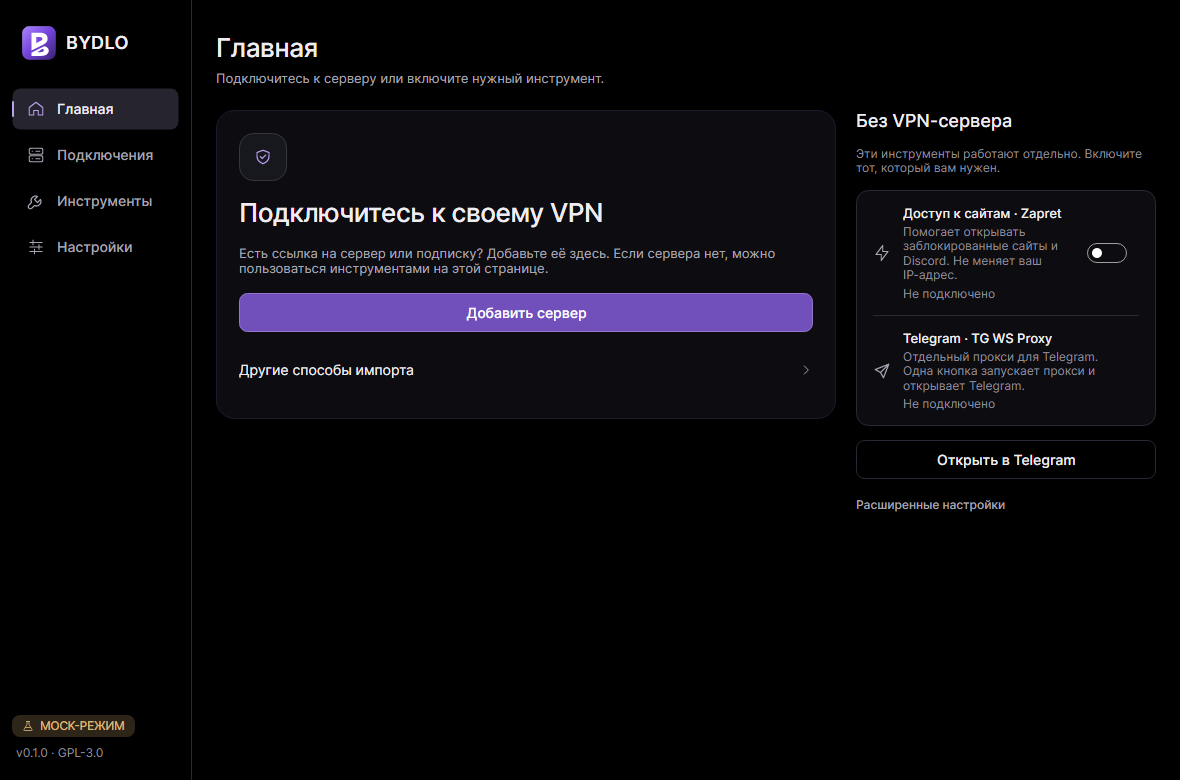
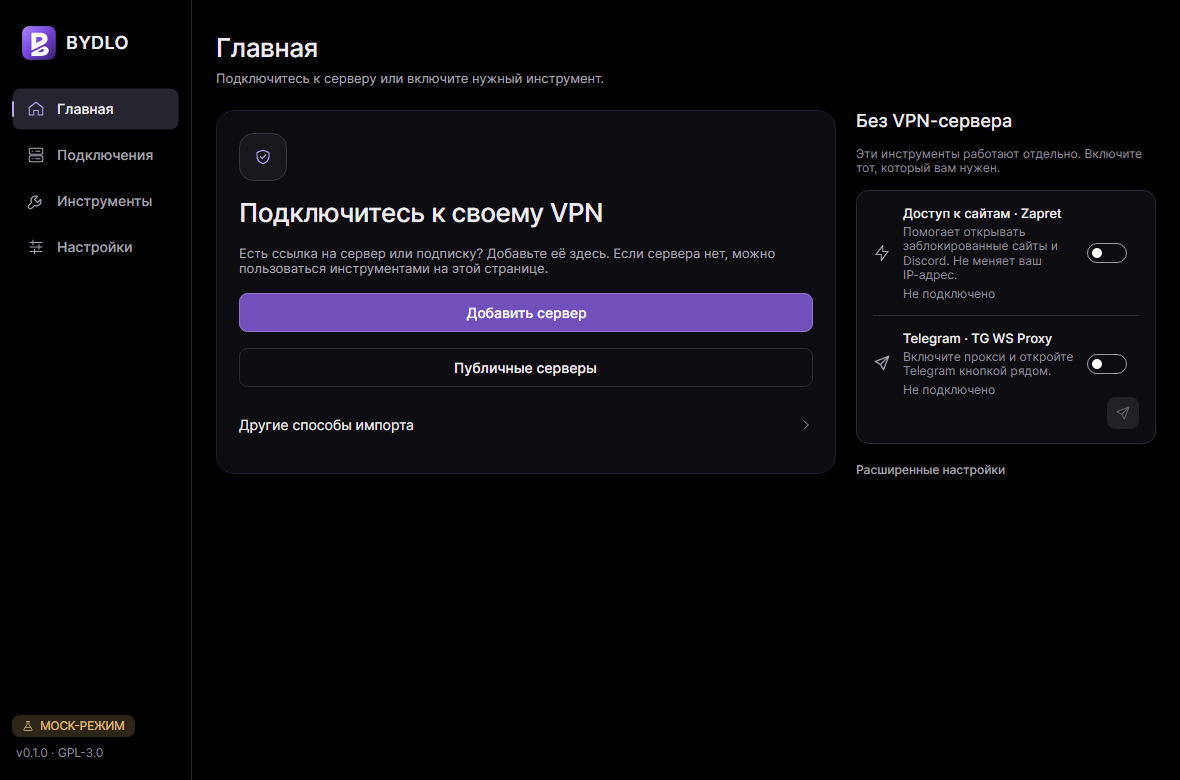
Expose public servers and themes and split Telegram controls

diff --git a/tools/Bydlo.Screenshots/Program.cs b/tools/Bydlo.Screenshots/Program.cs
@@ -262,6 +262,10 @@ if (args.Contains("--verify-simple-ui", StringComparer.Ordinal))
     if (shell.PrimaryNavItems.Count != 4)
         throw new InvalidOperationException("The desktop shell must expose four primary destinations.");
     shell.Navigate("settings");
+    var gallery = settingsWindow.GetVisualDescendants().OfType<Button>()
+        .Single(button => ReferenceEquals(button.Command, shell.Settings.FetchGalleryCommand));
+    if (!gallery.IsEffectivelyVisible || !gallery.Focusable)
+        throw new InvalidOperationException("The GitHub theme gallery must be visible without expanding custom themes.");
     var advanced = settingsWindow.GetVisualDescendants().OfType<Expander>().Single(e => e.Name == "AdvancedSettings");
     if (advanced.IsExpanded) throw new InvalidOperationException("Advanced settings must start collapsed.");
     advanced.IsExpanded = true;
@@ -282,14 +286,21 @@ if (args.Contains("--verify-simple-ui", StringComparer.Ordinal))
     var homeWindow = new Window { Width = 1180, Height = 780, Content = new MainView { DataContext = shell } };
     homeWindow.Show();
     Pump(100);
-    var toggles = homeWindow.GetVisualDescendants().OfType<ToggleSwitch>()
-        .Where(c => c.IsEffectivelyVisible && (Avalonia.Automation.AutomationProperties.GetName(c) is "Zapret" or "TgWsProxy")).ToArray();
-    if (toggles.Length != 1 || Avalonia.Automation.AutomationProperties.GetName(toggles[0]) != "Zapret")
-        throw new InvalidOperationException("Only Zapret should use a toggle.");
+    var telegramToggle = homeWindow.GetVisualDescendants().OfType<ToggleSwitch>()
+        .Single(control => ReferenceEquals(control.Command, shell.Home.ToggleTgCommand));
     var telegramButton = homeWindow.GetVisualDescendants().OfType<Button>()
-        .Single(b => ReferenceEquals(b.Command, shell.Tools.OpenInTelegramCommand));
-    if (!telegramButton.IsEffectivelyVisible || !telegramButton.IsEnabled)
-        throw new InvalidOperationException("Telegram connection must be available before the proxy starts.");
+        .Single(button => ReferenceEquals(button.Command, shell.Tools.OpenInTelegramCommand));
+    if (!telegramToggle.IsEffectivelyVisible || !telegramButton.IsEffectivelyVisible || telegramButton.IsEnabled)
+        throw new InvalidOperationException("The Telegram switch must be visible and opening Telegram must require a running proxy.");
+    var publicServers = homeWindow.GetVisualDescendants().OfType<Button>()
+        .Single(button => Equals(button.CommandParameter, "catalog"));
+    if (!publicServers.IsEffectivelyVisible || !publicServers.Focusable)
+        throw new InvalidOperationException("Public servers must be directly accessible from the empty home.");
+    Wait(shell.OpenImportCommand.ExecuteAsync(publicServers.CommandParameter));
+    if (!shell.IsAddServerOpen || !shell.AddServerWizard.IsCatalog)
+        throw new InvalidOperationException("Public servers must open the catalog directly.");
+    Shoot("simple-public-servers-380", 380, 760);
+    shell.AddServerWizard.CloseCommand.Execute(null);
     homeWindow.Width = 380;
     Pump(100);
     var shortcut = homeWindow.GetVisualDescendants().OfType<Button>().Single(b => b.Name == "ToolShortcut");
@@ -302,11 +313,15 @@ if (args.Contains("--verify-simple-ui", StringComparer.Ordinal))
     Wait(shell.Home.ToggleZapretCommand.ExecuteAsync(null));
     Pump(50); // Session notifications are posted to the UI dispatcher.
     if (shell.Home.ZapretOn) throw new InvalidOperationException("Mock Zapret tool did not stop.");
-    // No OS launcher in headless mode: exercise startup and the missing-Telegram fallback safely.
+    // No OS launcher in headless mode. Opening Telegram must never start a proxy.
     services.TopLevel = () => null;
     Wait(shell.Tools.OpenInTelegramCommand.ExecuteAsync(null));
     Pump(50);
-    if (!shell.Home.TgOn) throw new InvalidOperationException("Mock Telegram tool did not start.");
+    if (shell.Home.TgOn) throw new InvalidOperationException("Opening Telegram started the stopped proxy.");
+    Wait(shell.Home.ToggleTgCommand.ExecuteAsync(null));
+    Pump(50);
+    if (!shell.Home.TgOn || !shell.Tools.CanOpenInTelegram)
+        throw new InvalidOperationException("The switch did not start the mock proxy and enable the Telegram button.");
     var telegramStarted = services.Connections.TgWsProxy.ConnectedSince;
     Wait(shell.Tools.OpenInTelegramCommand.ExecuteAsync(null));
     if (services.Connections.TgWsProxy.ConnectedSince != telegramStarted)

diff --git a/src/Bydlo.App/ViewModels/ToolsViewModel.cs b/src/Bydlo.App/ViewModels/ToolsViewModel.cs
@@ -176,6 +176,7 @@ public sealed partial class ToolsViewModel : PageViewModel
     [ObservableProperty]
     private string _tgRuntimeInfo = "";
 
+    public bool CanOpenInTelegram => Shell.Tg.Status == ConnectionStatus.Connected && !Shell.Tg.CleanupPending;
     public bool TgRunning => Shell.Tg.CleanupPending || Shell.Tg.Status is ConnectionStatus.Connected or ConnectionStatus.Connecting;
 
     public string TgStatus => StatusOf(Shell.Tg);
@@ -383,10 +384,10 @@ public sealed partial class ToolsViewModel : PageViewModel
     {
         await Shell.Guard(async () =>
         {
-            if (!TgRunning && !SaveTgSettings()) { return; }
-            var connection = new TelegramProxyConnection(Services.Connections, Services.TgSecrets);
-            var opened = await connection.OpenAsync(Services.EffectiveSettings, async uri =>
-                Services.TopLevel()?.Launcher is { } launcher && await launcher.LaunchUriAsync(uri));
+            var session = await Services.Connections.GetRunningTgWsProxyAsync(Services.ShutdownToken);
+            if (session is not { } active) { return; }
+            var link = TgLinkBuilder.Build(active.Settings.Host, active.Settings.Port, active.Secret, active.Settings.FakeTlsDomain);
+            var opened = Services.TopLevel()?.Launcher is { } launcher && await launcher.LaunchUriAsync(new Uri(link));
             if (!opened) { Shell.ShowToast(L["tools.tg.notelegram"], isError: true); }
             await RefreshTgAsync();
         });
@@ -540,6 +541,7 @@ public sealed partial class ToolsViewModel : PageViewModel
         else if (e.PropertyName == nameof(MainViewModel.Tg))
         {
             OnPropertyChanged(nameof(TgRunning));
+            OnPropertyChanged(nameof(CanOpenInTelegram));
             OnPropertyChanged(nameof(TgStatus));
             OnPropertyChanged(nameof(TgError));
         }

diff --git a/src/Bydlo.Core/Connection/ConnectionManager.cs b/src/Bydlo.Core/Connection/ConnectionManager.cs
@@ -309,6 +309,19 @@ public sealed partial class ConnectionManager : IAsyncDisposable
         finally { _gate.Release(); }
     }
 
+    public async Task<(TgWsProxySettings Settings, string Secret)?> GetRunningTgWsProxyAsync(CancellationToken ct = default)
+    {
+        await _gate.WaitAsync(ct).ConfigureAwait(false);
+        try
+        {
+            if (TgWsProxy.Status != ConnectionStatus.Connected || TgWsProxy.CleanupPending ||
+                !_sessions.TryGetValue(TgWsProxyKey, out var session)) { return null; }
+
+            return (CloneSettings(session.Settings).TgWsProxy, session.Secrets["secret"]!);
+        }
+        finally { _gate.Release(); }
+    }
+
     public async Task StopToolAsync(string key, CancellationToken ct = default)
     {
         await _gate.WaitAsync(ct).ConfigureAwait(false);

diff --git a/src/Bydlo.App/ViewModels/MainViewModel.cs b/src/Bydlo.App/ViewModels/MainViewModel.cs
@@ -130,6 +130,9 @@ public sealed partial class MainViewModel : ViewModelBase
         if (!IsAddServerOpen || AddServerWizard.Busy) { return; }
         switch (source)
         {
+            case "catalog":
+                AddServerWizard.ChooseCatalogCommand.Execute(null);
+                break;
             case "file":
                 AddServerWizard.ChooseFileCommand.Execute(null);
                 await AddServerWizard.SelectFileCommand.ExecuteAsync(null);

diff --git a/README.md b/README.md
@@ -44,7 +44,7 @@ AmneziaWG, OpenVPN), а также [Zapret](https://github.com/Flowseal/zapret-d
 ## Интерфейс
 
 Фиолетовая, светлая и OLED-темы используют общую компоновку. На узком экране sidebar заменяется нижней навигацией.
-На главной сразу видны способы импорта, Zapret и Telegram-прокси — сервер для этих инструментов не нужен.
+На главной доступны импорт, публичные серверы igareck, Zapret и Telegram-прокси. Включите прокси Telegram переключателем, затем нажмите кнопку с бумажным самолётом. Галерея тем GitHub доступна в «Настройки → Внешний вид».
 Технические параметры открываются через «Расширенные настройки». [Как пользоваться интерфейсом](docs/INTERFACE.md).
 Скриншоты сняты на русском языке в Mock Mode; подключение и трафик на них имитируются.
 
